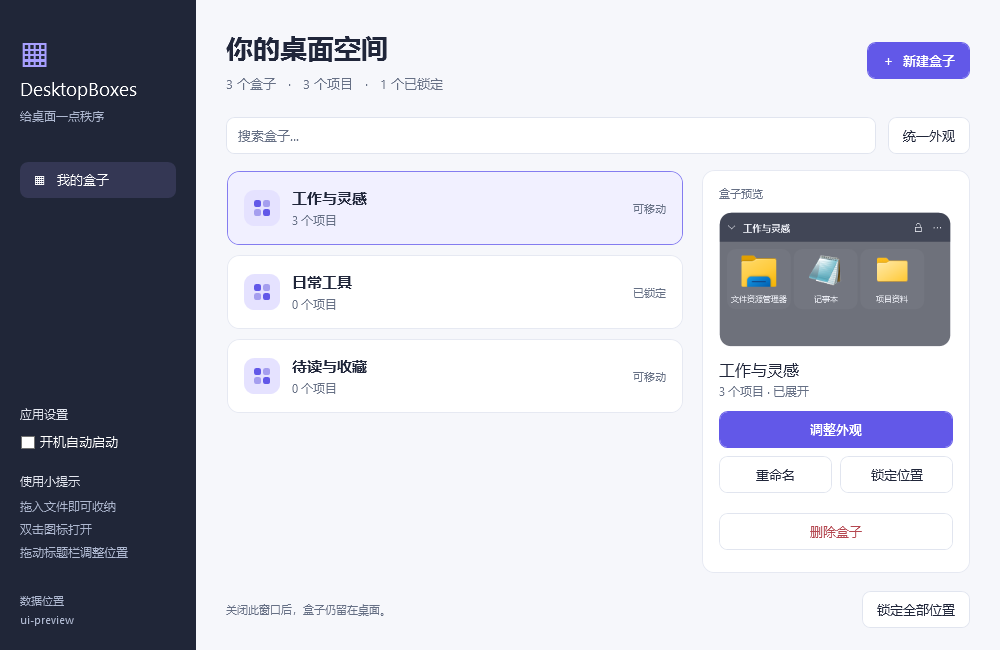
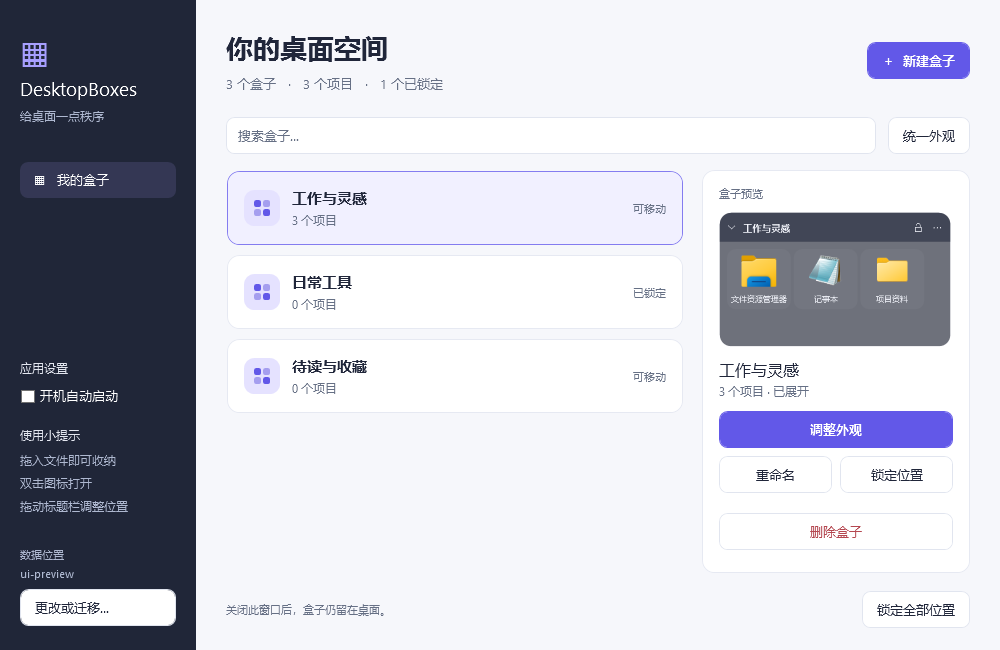
Release DesktopBoxes 1.2.1

Changed region(s): [[0.0, 0.5538, 0.186, 0.9846]]

diff --git a/tools/DesktopBoxes.UiChecks/Program.cs b/tools/DesktopBoxes.UiChecks/Program.cs
@@ -57,9 +57,11 @@ internal static class Program
         Assert(data.Opacity == 65, "new boxes default to 65 percent opacity");
         Assert((GetWindowLong(windows[0].Handle, -20) & 0x00080000) != 0, "desktop-owned boxes enable per-pixel opacity");
         bool autoStartEnabled = false;
+        int storageChangeRequests = 0;
         var master = new MasterWindow(windows, _output, () => { },
             () => windows.Add(new BoxWindow(new Box { Name = "新建盒子", X = -20000, Y = -20000 }, _output, host.Handle)),
-            w => { w.Dispose(); windows.Remove(w); }, () => autoStartEnabled, enabled => autoStartEnabled = enabled, () => true);
+            w => { w.Dispose(); windows.Remove(w); }, () => autoStartEnabled, enabled => autoStartEnabled = enabled,
+            () => storageChangeRequests++, () => true);
         try
         {
             RenderWindow(master, "dashboard.png", 1000, 650);
@@ -176,7 +178,12 @@ internal static class Program
             autoStart.IsChecked = false;
             autoStart.RaiseEvent(new RoutedEventArgs(ButtonBase.ClickEvent));
             Assert(!autoStartEnabled && autoStart.IsChecked == false, "dashboard disables auto-start");
-            var empty = new MasterWindow(Array.Empty<BoxWindow>(), _output, () => { }, () => { }, _ => { }, () => false, _ => { }, () => true);
+            var changeStorage = Descendants<Button>((DependencyObject)master.Content)
+                .Single(button => System.Windows.Automation.AutomationProperties.GetName(button) == "更改数据存储位置");
+            changeStorage.RaiseEvent(new RoutedEventArgs(ButtonBase.ClickEvent));
+            Assert(storageChangeRequests == 1, "dashboard requests data directory migration");
+            var empty = new MasterWindow(Array.Empty<BoxWindow>(), _output, () => { }, () => { }, _ => { }, () => false,
+                _ => { }, () => { }, () => true);
             RenderWindow(empty, "dashboard-empty.png", 1000, 650);
             Assert(!FindButton(empty, "统一外观").IsEnabled, "empty dashboard disables bulk operations");
             empty.Close();

diff --git a/src/DesktopBoxes.UI/MasterWindow.cs b/src/DesktopBoxes.UI/MasterWindow.cs
@@ -26,7 +26,7 @@ public class MasterWindow : Window
 
     public MasterWindow(IReadOnlyList<BoxWindow> windows, string dataDir, Action onChanged,
         Action onNewBox, Action<BoxWindow> onDeleteBox, Func<bool> isAutoStartEnabled,
-        Action<bool> setAutoStart, Func<bool> isExiting)
+        Action<bool> setAutoStart, Action changeDataDirectory, Func<bool> isExiting)
     {
         _windows = windows;
         _dataDir = dataDir;
@@ -94,6 +94,12 @@ public class MasterWindow : Window
         _storage.TextTrimming = TextTrimming.CharacterEllipsis;
         _storage.TextWrapping = TextWrapping.NoWrap;
         railBottom.Children.Add(_storage);
+        var changeStorage = UiTheme.Button("更改或迁移…", changeDataDirectory);
+        changeStorage.Margin = new Thickness(0, 9, 0, 0);
+        changeStorage.HorizontalContentAlignment = HorizontalAlignment.Left;
+        changeStorage.ToolTip = "选择新的数据存储目录并安全迁移现有数据";
+        System.Windows.Automation.AutomationProperties.SetName(changeStorage, "更改数据存储位置");
+        railBottom.Children.Add(changeStorage);
         DockPanel.SetDock(railBottom, Dock.Bottom);
         rail.Children.Add(railBottom);
         rail.Children.Add(new Border());

diff --git a/src/DesktopBoxes.App/App.xaml.cs b/src/DesktopBoxes.App/App.xaml.cs
@@ -334,7 +334,6 @@ public partial class App : System.Windows.Application
         var menu = new System.Windows.Forms.ContextMenuStrip();
         menu.Items.Add("打开总控", null, (_, _) => ShowMaster());
         menu.Items.Add("新建盒子", null, (_, _) => OnNewBoxRequested());
-        menu.Items.Add("数据存储位置…", null, (_, _) => ChangeDataDirectory());
 
         menu.Items.Add(new System.Windows.Forms.ToolStripSeparator());
         menu.Items.Add("退出", null, (_, _) => { if (FileOperationInProgress()) return; _exiting = true; Shutdown(); });
@@ -361,6 +360,7 @@ public partial class App : System.Windows.Application
             onDeleteBox: OnDeleteRequested,
             isAutoStartEnabled: IsAutoStartEnabled,
             setAutoStart: SetAutoStart,
+            changeDataDirectory: ChangeDataDirectory,
             isExiting: () => _exiting);
         _master.Show();
     }

diff --git a/README.md b/README.md
@@ -13,7 +13,7 @@
 - 双向移动 `.exe` / `.lnk` / 文件夹 / 文件：拖入后移入盒子专用目录，原位置不再显示；拖回桌面或资源管理器后从盒子移除；双击启动 / 打开
 - 折叠成标题栏（带 160ms 动画）；图标项右键：打开 / 打开所在位置 / 重命名 / 移回桌面
 - 换肤：新盒子默认 65% 不透明；可调整透明度、主题预设、背景色、标题栏色、文字色、背景图片（适应·拉伸·平铺·居中）和图标大小（小·中·大）
-- 托盘常驻、总控内开机自启开关、单实例
+- 托盘常驻、总控内开机自启和数据位置设置、单实例
 - 位置 / 大小 / 折叠 / 锁定 / 内容 / 外观持久化到 JSON，并采用原子保存、上一版备份和损坏配置恢复
 
 ## 界面
@@ -28,7 +28,7 @@
 
 ![外观编辑器](docs/images/appearance.png)
 
-截图使用演示数据，展示的是 1.2.0 界面。
+截图使用演示数据，展示的是 1.2.1 界面。
 
 ## 运行
 
@@ -44,7 +44,7 @@
 
 - 便携模式：在 exe 同目录放一个空文件 `portable`，数据存到 exe 旁 `data\`
 - 自定义目录：在默认位置的 `storage.location` 文件里写目标目录绝对路径
-- 也可以从托盘菜单选择“数据存储位置…”；程序会复制托管文件及背景资源、更新文件路径、切换保存位置，并保留原目录供手动确认后清理；目标不能已有 `items\`，未完成的移动需先处理
+- 也可以在总控侧栏选择“更改或迁移…”；程序会复制托管文件及背景资源、更新文件路径、切换保存位置，并保留原目录供手动确认后清理；目标不能已有 `items\`，未完成的移动需先处理。托盘菜单不再提供这一设置入口
 
 ## 文件移动与安全
 
@@ -67,7 +67,7 @@ dotnet build DesktopBoxes.sln -c Release --no-restore
 dotnet test DesktopBoxes.sln -c Release --no-build --no-restore
 
 # 同时生成安装器输入目录与带 portable 标记的便携包
-.\build-release.ps1 -Version 1.2.0
+.\build-release.ps1 -Version 1.2.1
 ```
 
 `artifacts\installer\` 中生成一个自包含的 `DesktopBoxes.App.exe`，可用作 Inno Setup 输入；`artifacts\DesktopBoxes-portable-win-x64-<版本>.zip` 是带便携模式标记的压缩包。旧版本的独立 EXE / ZIP 不会自动更新。构建脚本会拒绝清理含 `data\` 的输出目录，避免误删便携模式的真实用户文件。

diff --git a/CHANGELOG.md b/CHANGELOG.md
@@ -4,6 +4,12 @@
 
 ## [Unreleased]
 
+## [1.2.1] - 2026-09-11
+
+### Changed
+
+- 将“数据存储位置”从托盘菜单移到总控侧栏，继续复用原有的安全迁移、路径更新和原目录保留机制。
+
 ## [1.2.0] - 2026-09-11
 
 ### Changed
